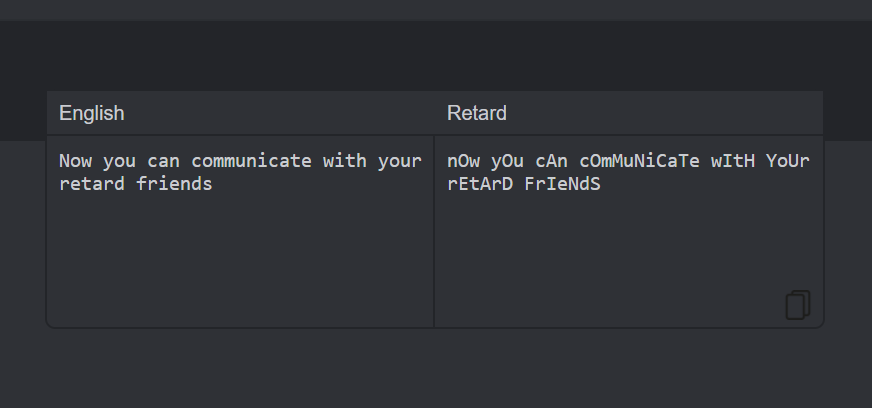
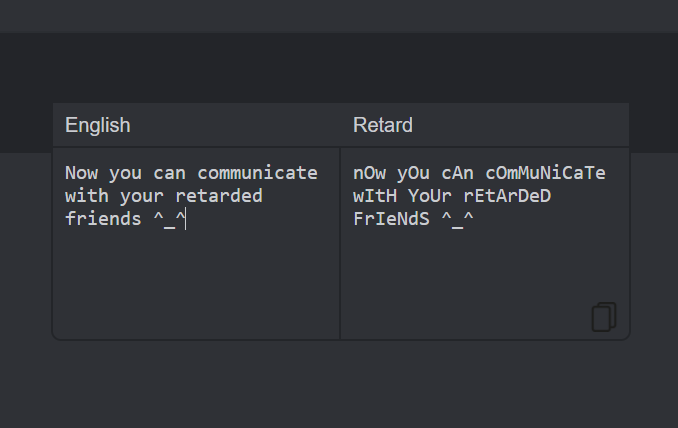
fixed image
fixed image

diff --git a/css/style.css b/css/style.css
@@ -42,7 +42,7 @@ nav {
     border-radius: 10px;
     background-color: #2f3136;
     border-color: #232529;
-    width: 1280px;
+    width: 580px;
     height: 240px;
     z-index: 99999;
     margin-top: 68px;
